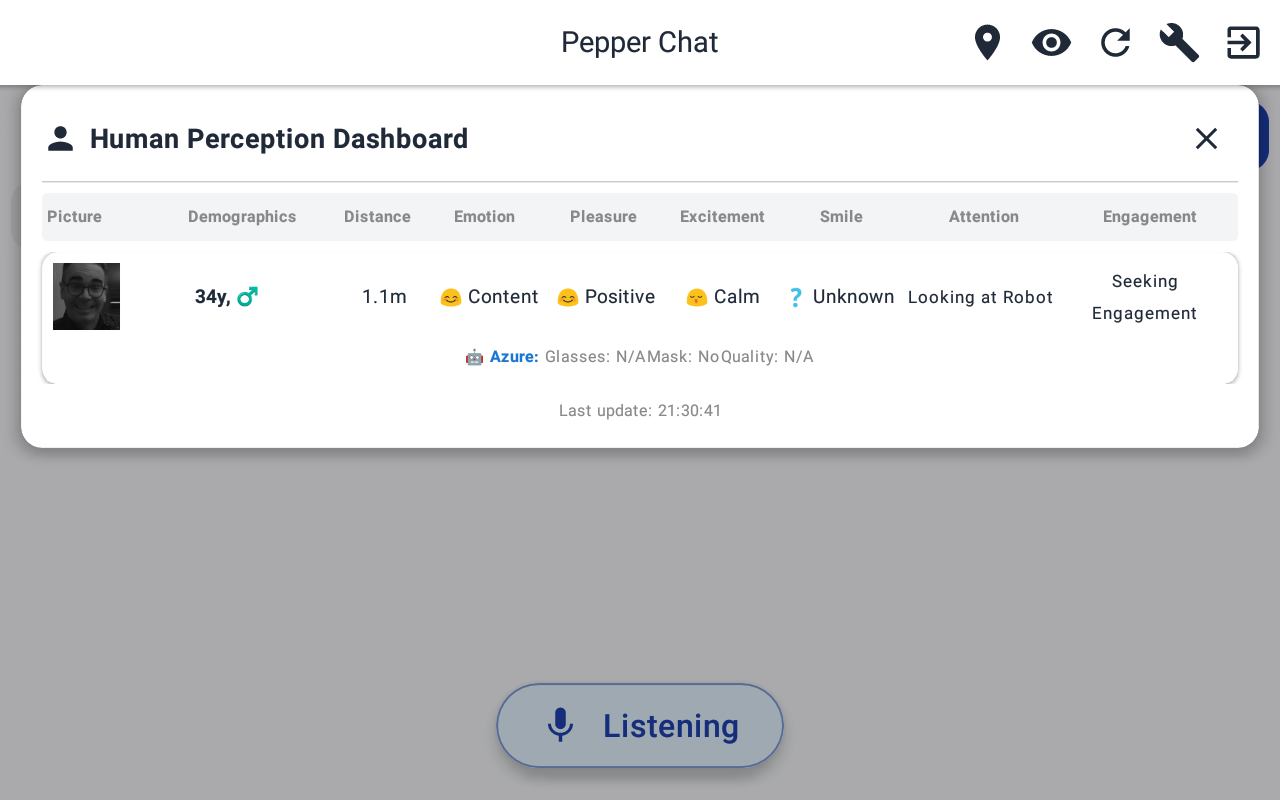
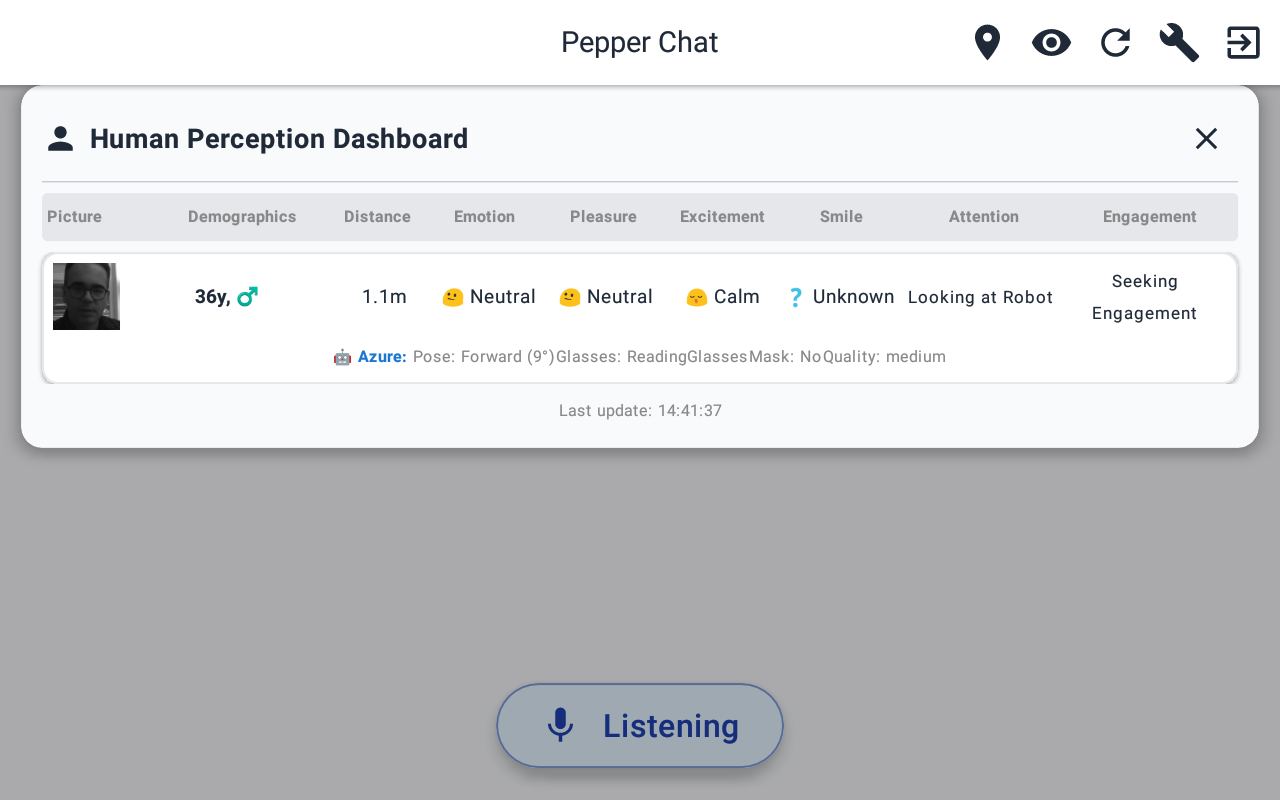
Enhance DashboardOverlay UI with border and color adjustments
- Updated DashboardOverlay colors for improved visual consistency.
- Added a border to the card component for better separation from the background.
- Modified the background and header colors for a more cohesive design.
- Updated the perception dashboard screenshot to reflect the new UI changes.

diff --git a/app/src/main/java/ch/fhnw/pepper_realtime/ui/compose/DashboardOverlay.kt b/app/src/main/java/ch/fhnw/pepper_realtime/ui/compose/DashboardOverlay.kt
@@ -1,5 +1,6 @@
 package ch.fhnw.pepper_realtime.ui.compose
 
+import androidx.compose.foundation.BorderStroke
 import androidx.compose.foundation.Image
 import androidx.compose.foundation.background
 import androidx.compose.foundation.clickable
@@ -28,11 +29,12 @@ import ch.fhnw.pepper_realtime.ui.DashboardState
 import java.util.Locale
 
 private object DashboardColors {
-    val Background = Color.White
-    val HeaderBackground = Color(0xFFF3F4F6) // Very light gray for table header
+    val Background = Color(0xFFF9FAFB) // Very light gray (almost white) for container
+    val HeaderBackground = Color(0xFFE5E7EB) // Slightly darker gray for header
     val TextDark = Color(0xFF1F2937) // Matches top bar dark grey
     val TextLight = Color.Gray
     val CardBackground = Color.White
+    val BorderColor = Color(0xFFE5E7EB)
 }
 
 private val ColWeights = listOf(0.12f, 0.12f, 0.08f, 0.1f, 0.1f, 0.1f, 0.1f, 0.14f, 0.14f)
@@ -170,6 +172,7 @@ fun HumanDetectionItem(human: PerceptionData.HumanInfo) {
     Card(
         colors = CardDefaults.cardColors(containerColor = DashboardColors.CardBackground),
         elevation = CardDefaults.cardElevation(defaultElevation = 2.dp),
+        border = BorderStroke(1.dp, DashboardColors.BorderColor),
         modifier = Modifier.fillMaxWidth()
     ) {
         Column(modifier = Modifier.padding(8.dp)) {
